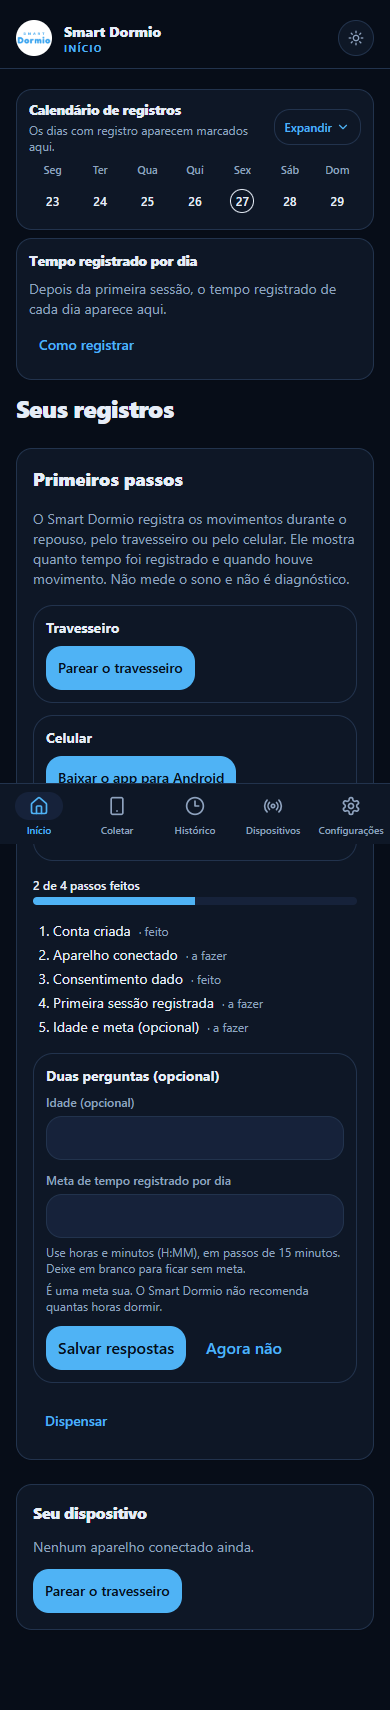
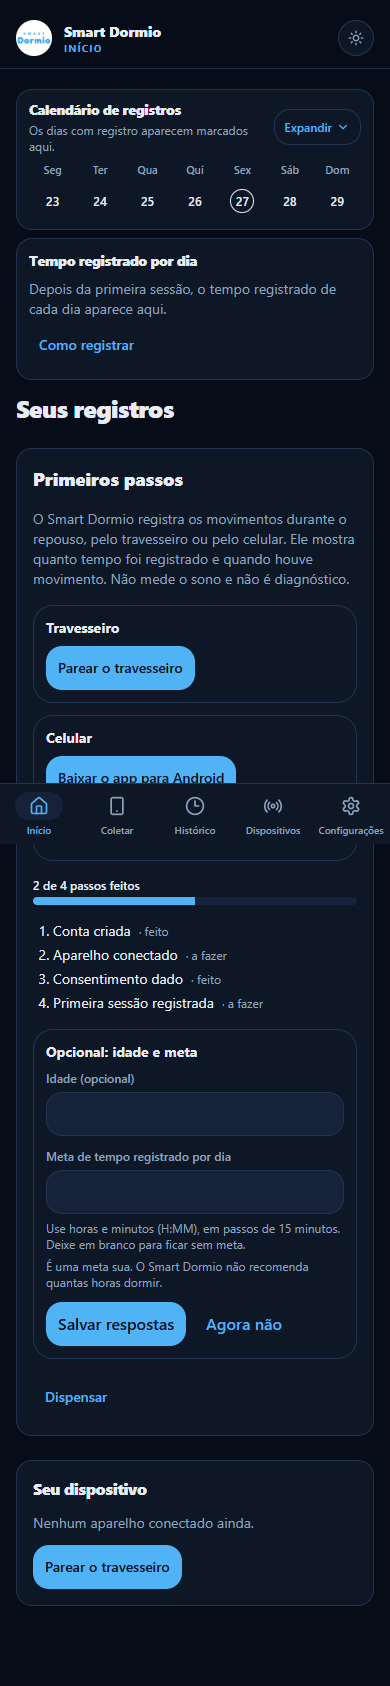
fix: separar idade e meta dos passos do guia (UI-60)

diff --git a/frontend/src/montagem.test.ts b/frontend/src/montagem.test.ts
@@ -1433,10 +1433,15 @@ describe("o painel em camadas (UI-40)", PRAZO, () => {
       const titulo = await screen.findByRole("heading", { name: "Primeiros passos" });
       expect(document.activeElement).toBe(titulo);
       await guia().findByText("2 de 4 passos feitos");
-      expect(guia().getByRole("progressbar", { name: "2 de 4 passos feitos" }).getAttribute("aria-valuenow")).toBe("2");
-      expect(guia().getAllByRole("listitem").map((item) => item.textContent)).toEqual([
-        "Conta criada· feito", "Aparelho conectado· a fazer", "Consentimento dado· feito", "Primeira sessão registrada· a fazer", "Idade e meta (opcional)· a fazer",
+      const progresso = guia().getByRole("progressbar", { name: "2 de 4 passos feitos" });
+      const passos = guia().getByRole("list");
+      const itens = within(passos).getAllByRole("listitem");
+      expect(progresso.getAttribute("aria-valuenow")).toBe("2");
+      expect(Number(progresso.getAttribute("aria-valuemax"))).toBe(itens.length);
+      expect(itens.map((item) => item.textContent)).toEqual([
+        "Conta criada· feito", "Aparelho conectado· a fazer", "Consentimento dado· feito", "Primeira sessão registrada· a fazer",
       ]);
+      expect(passos.contains(guia().getByRole("heading", { name: "Opcional: idade e meta" }))).toBe(false);
       expect(guia().getByRole("link", { name: "Testar no navegador (sessão curta)" }).getAttribute("href")).toBe("/coletar");
     });
 
@@ -1507,7 +1512,7 @@ describe("o painel em camadas (UI-40)", PRAZO, () => {
         : original(entrada, opcoes));
       await montar("/dashboard");
       await screen.findByRole("heading", { name: "Primeiros passos" });
-      expect(guia().getAllByRole("listitem")).toHaveLength(5);
+      expect(guia().getAllByRole("listitem")).toHaveLength(4);
       expect(guia().queryByText(/a fazer|feito/)).toBeNull();
       expect(guia().queryByRole("progressbar")).toBeNull();
     });

diff --git a/frontend/src/components/PrimeirosPassos.tsx b/frontend/src/components/PrimeirosPassos.tsx
@@ -2,9 +2,6 @@ import { useEffect, useRef } from "react";
 import { Link } from "react-router";
 
 import { URL_DO_APK } from "../lib/appAndroid";
-import { usePerfil } from "../contexts/PerfilContext";
-import { minutosDaMeta } from "../lib/metaDiaria";
-import { idadeDoPerfil } from "../lib/perfil";
 import { PerguntasDoGuia } from "./PerguntasDoGuia";
 
 const ACAO = "inline-flex min-h-11 items-center rounded-lg px-3 py-2 text-sm font-semibold focus-visible:outline-2 focus-visible:outline-ring";
@@ -19,8 +16,6 @@ export function PrimeirosPassos({ temAparelho, consentiu, situacaoConhecida, noA
   dispensar: () => void;
 }) {
   const titulo = useRef<HTMLHeadingElement>(null);
-  const { perfil } = usePerfil();
-  const opcionaisPreenchidos = idadeDoPerfil(perfil) !== null && minutosDaMeta(perfil?.meta_diaria_min) !== null;
   const passos = [
     { texto: "Conta criada", feito: true },
     { texto: "Aparelho conectado", feito: temAparelho },
@@ -70,7 +65,6 @@ export function PrimeirosPassos({ temAparelho, consentiu, situacaoConhecida, noA
         {passos.map(({ texto, feito }) => (
           <li key={texto}>{texto}{situacaoConhecida && <span className="ml-2 text-xs text-muted-foreground">· {feito ? "feito" : "a fazer"}</span>}</li>
         ))}
-        <li>Idade e meta (opcional){situacaoConhecida && <span className="ml-2 text-xs text-muted-foreground">· {opcionaisPreenchidos ? "feito" : "a fazer"}</span>}</li>
       </ol>
       <PerguntasDoGuia habilitado={situacaoConhecida} />
       <button type="button" onClick={dispensar} className={SECUNDARIA}>Dispensar</button>

diff --git a/frontend/src/components/PerguntasDoGuia.tsx b/frontend/src/components/PerguntasDoGuia.tsx
@@ -56,7 +56,7 @@ export function PerguntasDoGuia({ habilitado }: { habilitado: boolean }) {
 
   return (
     <div className="mt-2 space-y-2 rounded-xl border border-border p-3">
-      <h3 className="text-sm font-bold">Duas perguntas (opcional)</h3>
+      <h3 className="text-sm font-bold">Opcional: idade e meta</h3>
       {aviso && <p role="status" className="text-xs text-muted-foreground">{aviso}</p>}
       {abertas ? (
         <form className="space-y-3" onSubmit={salvar}>

diff --git a/docs/DIARIO-DE-ENGENHARIA.md b/docs/DIARIO-DE-ENGENHARIA.md
@@ -14376,6 +14376,8 @@ Contra `develop`, falharam 5 testes de tela e vocabulário, 9 do PATCH e 4 de ac
 | Permitir a leitura e a escrita de outra conta | Falharam seis testes, incluindo o de isolamento da meta |
 | Suprimir apenas coortes com menos de quatro contas | Falhou o teste da consulta agregada |
 
+✏ **Revisão da PR #331.** O progresso de “Primeiros passos” acompanha os quatro itens da lista. “Opcional: idade e meta” aparece em bloco separado, sem marca de pendência. O teste de tela compara o total acessível com o número de itens. Ao recolocar idade e meta como quinto item, falhou com “esperava 4, recebeu 5”. As quatro capturas do guia foram atualizadas.
+
 **Adaptação.** O gráfico usa a mesma série semanal do calendário, informa quantos dias entraram na média e omite a projeção quando o histórico é parcial. Hoje vazio e os dias futuros entram na projeção. A consulta agregada usa dias civis em `America/Sao_Paulo`, une intervalos com duração declarada e não estima duração das épocas antigas sem esse valor. O patch aprovado da política foi aplicado com as quatro datas em 27/11, para o release previsto.
 
 **O que deu errado no caminho.** A revisão automática ficou indisponível por limite de uso durante a troca de worktree. Após retomar na worktree registrada, a gravação foi autorizada. O primeiro cenário SQL tentava representar quatro horas como uma época, acima da faixa de uma época no banco. O teste passou a inserir épocas válidas. O controle sem 027 mostrou que uma recusa genérica aceitava o erro de coluna ausente nos testes de faixa. Esses testes passaram a exigir a violação da restrição. A primeira captura perdeu o contexto durante a atualização da prévia e foi repetida com a tela estabilizada.
